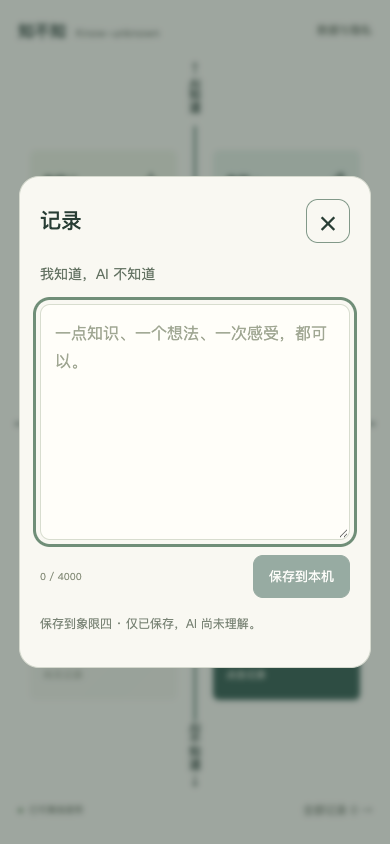
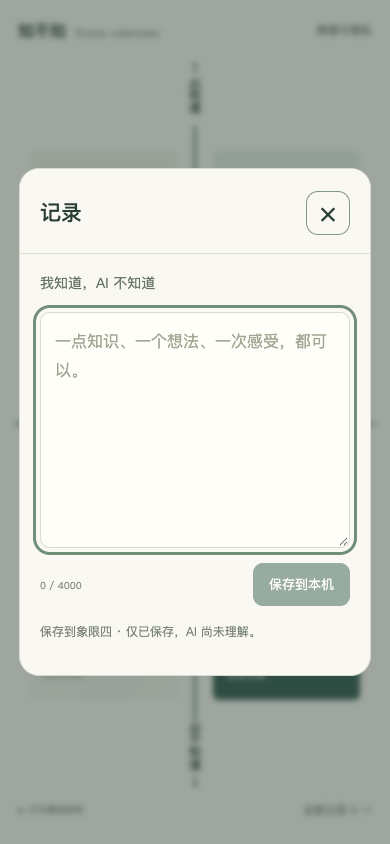
Keep dialog heading and close control fixed above scrolling records

diff --git a/src/App.tsx b/src/App.tsx
@@ -20,6 +20,7 @@ export default function App() {
   const [busy, setBusy] = useState(false); const [online, setOnline] = useState(navigator.onLine);
   const [offlineReady, setOfflineReady] = useState(false); const [offlineError, setOfflineError] = useState(false);
   const dialog = useRef<HTMLDialogElement>(null); const channel = useRef<BroadcastChannel | null>(null);
+  const scrollContent = useRef<HTMLDivElement>(null);
   const editorReturn = useRef<{ panel: RecordPanel; scrollTop: number; trigger: HTMLButtonElement } | undefined>(undefined);
   const mutationLock = useRef(false);
   const editingFeedback = editing?.analysis !== undefined;
@@ -46,11 +47,11 @@ export default function App() {
   useLayoutEffect(() => {
     if (panel && !dialog.current?.open) dialog.current?.showModal();
     if (panel === 'write') {
-      if (dialog.current) dialog.current.scrollTop = 0;
+      if (scrollContent.current) scrollContent.current.scrollTop = 0;
       dialog.current?.querySelector('textarea')?.focus({ preventScroll: true });
     } else if (editorReturn.current && editorReturn.current.panel === panel) {
       const origin = editorReturn.current;
-      if (dialog.current) dialog.current.scrollTop = origin.scrollTop;
+      if (scrollContent.current) scrollContent.current.scrollTop = origin.scrollTop;
       origin.trigger.focus({ preventScroll: true });
       editorReturn.current = undefined;
     }
@@ -87,7 +88,7 @@ export default function App() {
   function edit(record: CognitiveRecord, trigger: HTMLButtonElement) {
     if (busy || update.applying) return;
     if (panel === 'all' || panel === 'shared' || panel === 'gaps' || panel === 'unexplored') {
-      editorReturn.current = { panel, scrollTop: dialog.current?.scrollTop ?? 0, trigger };
+      editorReturn.current = { panel, scrollTop: scrollContent.current?.scrollTop ?? 0, trigger };
     }
     setEditing(record); setText(record.analysis?.userRevision?.summary ?? record.analysis?.summary ?? record.text); setKind(record.kind); setEntryPoint(record.placement.entryPoint);
     setAnswerId(undefined); setError(''); setNotice(''); setPanel('write');
@@ -157,12 +158,17 @@ export default function App() {
     {notice && <p role="status" className="notice">{notice}</p>}
     {!panel && error && <div role="alert" className="error">{error} <button onClick={() => void run(reload, '已重新读取本机资料。')}>重试</button></div>}
     <dialog ref={dialog} onCancel={e => { e.preventDefault(); close(); }} onClose={() => setPanel(undefined)} aria-labelledby="panel-title">
-      <div className="dialog-header"><div><h2 id="panel-title">{panel === 'write' && editingFeedback ? '修订 AI 反馈' : panel === 'write' && editing ? '编辑记录' : panel && panelTitle[panel]}</h2></div><button className="close" disabled={busy} onClick={close} aria-label="关闭">×</button></div>
-      {panel === 'write' && <form onSubmit={save}><p className="editor-context">{editingFeedback ? '写下你认为更准确的理解' : kind === 'personal' ? '我知道，AI 不知道' : '我还不知道，等待探索'}</p><label className="sr-only" htmlFor="note">{editingFeedback ? '修订 AI 反馈' : kind === 'personal' ? '记下一件你知道的事' : '记下一件你还不明白的事'}</label><textarea id="note" autoFocus value={text} maxLength={MAX_TEXT} disabled={busy} onChange={e => setText(e.target.value)} placeholder={kind === 'personal' ? '一点知识、一个想法、一次感受，都可以。' : '例如：我想知道怎样设计航天飞机。'}/><div className="editor-bottom"><span>{text.length} / {MAX_TEXT}</span><button className="primary" disabled={busy || !text.trim() || (editing !== undefined && !dirty)}>{busy ? '保存中…' : editing ? '保存修改' : '保存到本机'}</button></div><p className="hint" aria-live="polite">{editingFeedback ? '保留 AI 原建议，保存为用户修订，等待确认。' : editing && editing.status !== 'pending' ? `修改后回到${kind === 'known_unknown' ? '象限二' : '象限四'}，原理解与确认失效。` : `保存到${kind === 'known_unknown' ? '象限二' : '象限四'} · 仅已保存，AI 尚未理解。`}</p></form>}
-      {listPanel && <div hidden={panel === 'write'}><p className="panel-description">{listPanel === 'all' ? '所有已保存记录都在这里；调整象限后仍会保留，理解与确认状态分别标注。' : listPanel === 'shared' ? '可修订 AI 反馈或删除已有记录，不能在此新增。' : listPanel === 'unexplored' ? '这里保留待探索的条目，你可以逐条查看或删除。' : '你主动记录的未知与困惑，可编辑或删除。'}</p>{listPanel === 'all' && questionPrompt}{groups[listPanel].length ? [...groups[listPanel]].reverse().map(recordView) : <div className="empty"><span>○</span><h3>{listPanel === 'shared' ? '共同认知，慢慢形成' : listPanel === 'gaps' ? '好奇心还未落笔' : '这里还没有记录'}</h3><p>{listPanel === 'shared' ? '接入模型并核对理解后，记录会出现在这里。' : listPanel === 'unexplored' ? '有记录后，可在这里查看或删除。' : '从象限四记下一件小事就好。'}</p></div>}{(listPanel === 'all' || listPanel === 'gaps') && <button className="primary full" onClick={() => write(undefined, listPanel === 'gaps' ? 'known_unknown' : 'personal', listPanel === 'gaps' ? 'upper_left' : 'record_list')}>记录</button>}</div>}
-      {panel === 'settings' && <div className="settings"><section><h3>应用版本 {APP_VERSION}</h3><p>数据格式 {archive?.schemaVersion ?? '…'} · 更新应用会保留本机已保存记录。</p><div className="record-actions"><button disabled={busy || update.checking || update.applying} onClick={() => void checkForUpdates()}>{update.checking ? '检查中…' : '检查更新'}</button>{update.available && <button disabled={busy || update.applying} onClick={updateApp}>{update.applying ? '更新中…' : '更新应用'}</button>}</div><p role="status">{update.message}</p></section><section><h3>你的记录，留在你的设备上</h3><p>首版没有账号、云同步或真实模型。资料保存在当前浏览器，未作应用级加密。不同浏览器不会自动共享。</p><p>清理站点、隐私浏览或设备空间不足可能导致资料丢失。建议定期导出；导出文件为明文，请妥善保存。</p></section><div className="data-actions"><button disabled={busy || !archive} onClick={() => void download()}>导出 JSON · {records.length} 条</button><label className="file-button">从 JSON 恢复<input type="file" accept=".json,application/json" disabled={busy || !archive} onChange={e => { const file = e.target.files?.[0]; e.target.value = ''; if (file) void restore(file); }}/></label><button disabled={busy} onClick={() => void run(async () => { if (!navigator.storage?.persist) throw new Error('当前浏览器不支持请求持久保存'); const granted = await navigator.storage.persist(); if (!granted) throw new Error('浏览器尚未授予持久保存，请继续定期导出'); }, '浏览器已允许持久保存，仍建议定期导出。')}>请求浏览器保留资料</button></div><section><h3>关于 AI</h3><p>当前不收集 API Key、不发送记录。未来支持自填模型 Key 或可选本地模型；只有你主动要求理解时，才发送选中的记录。</p></section><button className="danger text-button" disabled={busy || !archive} onClick={() => { if (window.confirm('清空全部记录与跳过的问题？此操作无法撤销，建议先导出。')) void run(() => repository.clear(), '本机个人资料已清空。'); }}>清空本机全部资料</button></div>}
-      {error && <p role="alert" className="error">{error}</p>}
-      {notice && <p role="status" className="notice">{notice}</p>}
+      <div className="dialog-top">
+        <div className="dialog-header"><div><h2 id="panel-title">{panel === 'write' && editingFeedback ? '修订 AI 反馈' : panel === 'write' && editing ? '编辑记录' : panel && panelTitle[panel]}</h2></div><button className="close" disabled={busy} onClick={close} aria-label="关闭">×</button></div>
+        {listPanel && panel !== 'write' && <p className="panel-description">{listPanel === 'all' ? '所有已保存记录都在这里；调整象限后仍会保留，理解与确认状态分别标注。' : listPanel === 'shared' ? '可修订 AI 反馈或删除已有记录，不能在此新增。' : listPanel === 'unexplored' ? '这里保留待探索的条目，你可以逐条查看或删除。' : '你主动记录的未知与困惑，可编辑或删除。'}</p>}
+      </div>
+      <div className="dialog-content" ref={scrollContent}>
+        {panel === 'write' && <form onSubmit={save}><p className="editor-context">{editingFeedback ? '写下你认为更准确的理解' : kind === 'personal' ? '我知道，AI 不知道' : '我还不知道，等待探索'}</p><label className="sr-only" htmlFor="note">{editingFeedback ? '修订 AI 反馈' : kind === 'personal' ? '记下一件你知道的事' : '记下一件你还不明白的事'}</label><textarea id="note" autoFocus value={text} maxLength={MAX_TEXT} disabled={busy} onChange={e => setText(e.target.value)} placeholder={kind === 'personal' ? '一点知识、一个想法、一次感受，都可以。' : '例如：我想知道怎样设计航天飞机。'}/><div className="editor-bottom"><span>{text.length} / {MAX_TEXT}</span><button className="primary" disabled={busy || !text.trim() || (editing !== undefined && !dirty)}>{busy ? '保存中…' : editing ? '保存修改' : '保存到本机'}</button></div><p className="hint" aria-live="polite">{editingFeedback ? '保留 AI 原建议，保存为用户修订，等待确认。' : editing && editing.status !== 'pending' ? `修改后回到${kind === 'known_unknown' ? '象限二' : '象限四'}，原理解与确认失效。` : `保存到${kind === 'known_unknown' ? '象限二' : '象限四'} · 仅已保存，AI 尚未理解。`}</p></form>}
+        {listPanel && <div hidden={panel === 'write'}>{listPanel === 'all' && questionPrompt}{groups[listPanel].length ? [...groups[listPanel]].reverse().map(recordView) : <div className="empty"><span>○</span><h3>{listPanel === 'shared' ? '共同认知，慢慢形成' : listPanel === 'gaps' ? '好奇心还未落笔' : '这里还没有记录'}</h3><p>{listPanel === 'shared' ? '接入模型并核对理解后，记录会出现在这里。' : listPanel === 'unexplored' ? '有记录后，可在这里查看或删除。' : '从象限四记下一件小事就好。'}</p></div>}{(listPanel === 'all' || listPanel === 'gaps') && <button className="primary full" onClick={() => write(undefined, listPanel === 'gaps' ? 'known_unknown' : 'personal', listPanel === 'gaps' ? 'upper_left' : 'record_list')}>记录</button>}</div>}
+        {panel === 'settings' && <div className="settings"><section><h3>应用版本 {APP_VERSION}</h3><p>数据格式 {archive?.schemaVersion ?? '…'} · 更新应用会保留本机已保存记录。</p><div className="record-actions"><button disabled={busy || update.checking || update.applying} onClick={() => void checkForUpdates()}>{update.checking ? '检查中…' : '检查更新'}</button>{update.available && <button disabled={busy || update.applying} onClick={updateApp}>{update.applying ? '更新中…' : '更新应用'}</button>}</div><p role="status">{update.message}</p></section><section><h3>你的记录，留在你的设备上</h3><p>首版没有账号、云同步或真实模型。资料保存在当前浏览器，未作应用级加密。不同浏览器不会自动共享。</p><p>清理站点、隐私浏览或设备空间不足可能导致资料丢失。建议定期导出；导出文件为明文，请妥善保存。</p></section><div className="data-actions"><button disabled={busy || !archive} onClick={() => void download()}>导出 JSON · {records.length} 条</button><label className="file-button">从 JSON 恢复<input type="file" accept=".json,application/json" disabled={busy || !archive} onChange={e => { const file = e.target.files?.[0]; e.target.value = ''; if (file) void restore(file); }}/></label><button disabled={busy} onClick={() => void run(async () => { if (!navigator.storage?.persist) throw new Error('当前浏览器不支持请求持久保存'); const granted = await navigator.storage.persist(); if (!granted) throw new Error('浏览器尚未授予持久保存，请继续定期导出'); }, '浏览器已允许持久保存，仍建议定期导出。')}>请求浏览器保留资料</button></div><section><h3>关于 AI</h3><p>当前不收集 API Key、不发送记录。未来支持自填模型 Key 或可选本地模型；只有你主动要求理解时，才发送选中的记录。</p></section><button className="danger text-button" disabled={busy || !archive} onClick={() => { if (window.confirm('清空全部记录与跳过的问题？此操作无法撤销，建议先导出。')) void run(() => repository.clear(), '本机个人资料已清空。'); }}>清空本机全部资料</button></div>}
+        {error && <p role="alert" className="error">{error}</p>}
+        {notice && <p role="status" className="notice">{notice}</p>}
+      </div>
     </dialog>
   </main>;
 }

diff --git a/src/styles.css b/src/styles.css
@@ -75,7 +75,7 @@ header h1 { font-size: 18px; font-weight: 500; letter-spacing: .2px; line-height
 .question small { font-size: 10px; color: #8b927f; }
 .question p { font-size: 13px; margin: 4px 0 0; }
 .question-actions { display: flex; justify-content: flex-end; gap: 20px; margin-top: 8px; }
-.notice,.error{padding:10px 14px;border-radius:8px;font-size:13px;overflow-wrap:anywhere}.notice{background:#e4eadf;color:#365d51}.error{background:#f6e9e1;color:#874e3b}dialog{width:min(570px,calc(100% - 24px));max-height:88dvh;border:1px solid #d5d9ce;border-radius:20px;background:#f9f8f2;color:#283d34;padding:28px;overscroll-behavior:contain}dialog::backdrop{background:#23352d69;backdrop-filter:blur(3px)}.dialog-header{display:flex;justify-content:space-between;align-items:center;margin-bottom:25px}.dialog-header h2{font-size:24px;font-weight:500;margin:0}.dialog-header .eyebrow{font-size:8px}.close{display:flex;align-items:center;justify-content:center;flex:0 0 44px;width:44px;height:44px;border:1.5px solid #829989;border-radius:12px;font-size:28px;padding:0}form label{display:block;font-size:12px;color:#7b8578;margin-bottom:10px}textarea{display:block;width:100%;height:clamp(160px,28dvh,260px);min-height:150px;padding:14px;border:1px solid #d8ddcf;border-radius:10px;resize:vertical;background:#fffef9;color:#283d34;font-size:16px;line-height:1.8}textarea::placeholder{color:#a0a793}.editor-bottom{display:flex;justify-content:space-between;align-items:center;margin-top:15px}.editor-bottom>span{font-size:10px;color:#8b927f}.primary{background:var(--green);color:#fff;border-color:var(--green);font-size:13px}.hint,.panel-description{font-size:12px;color:#7a8476}.hint{margin-top:16px}.panel-description{margin:0 0 20px}.record{padding:20px 0;border-top:1px solid #dce0d2}.record-meta{display:flex;justify-content:space-between;align-items:center}.record-meta time{font-size:10px;color:#909780}.badge{font-size:10px;border-radius:20px;padding:3px 9px;background:#e9ebdf;color:#6d795e}.badge.confirmed{background:#dce9dc;color:#365d51}.original{font-size:15px;white-space:pre-wrap;overflow-wrap:anywhere}.analysis{background:#eaeee3;padding:12px 16px;border-radius:10px}.analysis small{font-size:10px;color:#7b8772}.analysis p{font-size:13px;white-space:pre-wrap;overflow-wrap:anywhere}.record-actions{display:flex;gap:12px;flex-wrap:wrap;margin-top:14px}.record-actions button{font-size:11px;padding:6px 10px}.danger{color:#98634e}.empty{text-align:center;padding:35px 5px 45px;color:#7f8c72}.empty>span{font-size:40px;font-weight:200}.empty h3{font-size:16px;font-weight:400}.empty p{font-size:12px}.full{width:100%}.settings h3{font-size:15px;font-weight:500}.settings p{font-size:12px;color:#7b8578;line-height:1.9}.settings section{margin-bottom:24px}.data-actions{display:grid;gap:10px;margin-bottom:28px}.data-actions button,.file-button{font-size:13px;text-align:center;border:1px solid #d5d9ce;padding:10px;border-radius:10px}.file-button{display:block;position:relative;cursor:pointer}.file-button input{position:absolute;inset:0;width:100%;height:100%;opacity:0;cursor:pointer}.file-button:has(input:disabled){opacity:.5;cursor:default}@media (max-width: 600px) {
+.notice,.error{padding:10px 14px;border-radius:8px;font-size:13px;overflow-wrap:anywhere}.notice{background:#e4eadf;color:#365d51}.error{background:#f6e9e1;color:#874e3b}dialog{width:min(570px,calc(100% - 24px));max-height:88dvh;border:1px solid #d5d9ce;border-radius:20px;background:#f9f8f2;color:#283d34;padding:0;overflow:hidden}dialog[open]{display:flex;flex-direction:column}dialog::backdrop{background:#23352d69;backdrop-filter:blur(3px)}.dialog-header{display:flex;justify-content:space-between;align-items:center;margin-bottom:0;gap:16px}.dialog-header h2{font-size:24px;font-weight:500;margin:0}.dialog-top{flex:none;padding:24px 28px 20px;background:#f9f8f2;border-bottom:1px solid #dce0d2}.dialog-top .panel-description{margin:18px 0 0}.dialog-header>div{min-width:0}.dialog-content{min-height:0;overflow-y:auto;overscroll-behavior:contain;padding:20px 28px 28px}.dialog-header .eyebrow{font-size:8px}.close{display:flex;align-items:center;justify-content:center;flex:0 0 44px;width:44px;height:44px;border:1.5px solid #829989;border-radius:12px;font-size:28px;padding:0}form label{display:block;font-size:12px;color:#7b8578;margin-bottom:10px}textarea{display:block;width:100%;height:clamp(160px,28dvh,260px);min-height:150px;padding:14px;border:1px solid #d8ddcf;border-radius:10px;resize:vertical;background:#fffef9;color:#283d34;font-size:16px;line-height:1.8}textarea::placeholder{color:#a0a793}.editor-bottom{display:flex;justify-content:space-between;align-items:center;margin-top:15px}.editor-bottom>span{font-size:10px;color:#8b927f}.primary{background:var(--green);color:#fff;border-color:var(--green);font-size:13px}.hint,.panel-description{font-size:12px;color:#7a8476}.hint{margin-top:16px}.panel-description{margin:0 0 20px}.record{padding:20px 0;border-top:1px solid #dce0d2}.record-meta{display:flex;justify-content:space-between;align-items:center}.record-meta time{font-size:10px;color:#909780}.badge{font-size:10px;border-radius:20px;padding:3px 9px;background:#e9ebdf;color:#6d795e}.badge.confirmed{background:#dce9dc;color:#365d51}.original{font-size:15px;white-space:pre-wrap;overflow-wrap:anywhere}.analysis{background:#eaeee3;padding:12px 16px;border-radius:10px}.analysis small{font-size:10px;color:#7b8772}.analysis p{font-size:13px;white-space:pre-wrap;overflow-wrap:anywhere}.record-actions{display:flex;gap:12px;flex-wrap:wrap;margin-top:14px}.record-actions button{font-size:11px;padding:6px 10px}.danger{color:#98634e}.empty{text-align:center;padding:35px 5px 45px;color:#7f8c72}.empty>span{font-size:40px;font-weight:200}.empty h3{font-size:16px;font-weight:400}.empty p{font-size:12px}.full{width:100%}.settings h3{font-size:15px;font-weight:500}.settings p{font-size:12px;color:#7b8578;line-height:1.9}.settings section{margin-bottom:24px}.data-actions{display:grid;gap:10px;margin-bottom:28px}.data-actions button,.file-button{font-size:13px;text-align:center;border:1px solid #d5d9ce;padding:10px;border-radius:10px}.file-button{display:block;position:relative;cursor:pointer}.file-button input{position:absolute;inset:0;width:100%;height:100%;opacity:0;cursor:pointer}.file-button:has(input:disabled){opacity:.5;cursor:default}@media (max-width: 600px) {
   main { padding: max(14px, env(safe-area-inset-top)) 18px max(14px, env(safe-area-inset-bottom)); }
   header { margin-bottom: 14px; }
   header h1 { font-size: 16px; letter-spacing: 0; }
@@ -94,9 +94,9 @@ header h1 { font-size: 18px; font-weight: 500; letter-spacing: .2px; line-height
   .vertical-label { font-size: 12px; }
   .below-map { font-size: 9px; margin-top: 8px; }
   .below-map .text-button { font-size: 11px; }
-  dialog { padding: 22px 20px; }
+  .dialog-top { padding: 22px 20px 18px; }
+  .dialog-content { padding: 18px 20px 22px; }
   .dialog-header h2 { font-size: 21px; }
-  .dialog-header { margin-bottom: 20px; }
   .notice, .error { font-size: 12px; }
 }
 @media (prefers-reduced-motion: reduce) { * { transition: none !important; } }

diff --git a/src/pwa.ts b/src/pwa.ts
@@ -1,6 +1,6 @@
 import { registerSW } from 'virtual:pwa-register';
 
-export const APP_VERSION = '0.1.5';
+export const APP_VERSION = '0.1.6';
 type UpdateState = { available: boolean; checking: boolean; applying: boolean; message: string };
 let state: UpdateState = { available: false, checking: false, applying: false, message: '' };
 const listeners = new Set<() => void>();

diff --git a/docs/verification.md b/docs/verification.md
@@ -219,3 +219,16 @@ npm run test:e2e
 - 编辑修复提交 f8eb22b、版本校正提交 28eea6e 均已推送。最终 [GitHub Actions 39717805783](https://github.com/ZHERLOCK0213/Know-unknown/actions/runs/39717805783) 终态 success。
 - 正式 HTTPS 网站独立 Chrome 390×844 验收通过：HTTP 200，设置页显示应用 0.1.5、归档仍 v5。仅在隔离浏览器本地导入 8 条 test/fake 虚构记录，从列表中段验证无修改关闭、拒绝/确认放弃草稿、Esc 与保存，均返回同一列表、原滚动位置和编辑按钮焦点；页面错误 0。
 - 关闭页面并断网重开后，反馈修订仍可查看；离线编辑后关闭继续返回原列表。导出确认原文、模型原建议与独立 userRevision 保留，状态仍待确认。已目视检查线上返回列表画面。测试上下文关闭即移除虚构数据，没有上传用户 JSON 或把私人内容写入仓库；iPhone 主屏幕实际更新与键盘表现仍需用户验收。
+
+
+## 固定弹窗顶部与独立滚动内容
+
+日期：2026-10-22。应用版本：0.1.6，归档格式仍为 v5。
+
+- 将弹窗拆为固定顶部与独立滚动内容区；标题、列表说明、关闭按钮始终留在顶部，关闭点击区保留 44×44px。编辑器和数据设置共用该结构。
+- 上轮编辑返回机制改为缓存/恢复内容区的 scrollTop，仍保留来源列表、触发按钮焦点和展开详情；不改变理解或确认状态，不改数据库及导出格式。
+- npm test：2 文件 31 项通过。APP_BASE_PATH=/Know-unknown/ npm run build：TypeScript、Vite、PWA 生成通过，预缓存 267.66 KiB。
+- 定向浏览器检查 4 项通过，完整 APP_BASE_PATH=/Know-unknown/ npm run test:e2e：16 项通过（15.8 秒）。新增 12 条虚构反馈长列表，在 390×844、360×640、390×420 短屏和 1280×900 桌面上滚到底部：标题、说明、关闭按钮都在视口内，顶部位置变化不超过 1px，内容不覆盖顶部，实际直接点击关闭成功。
+- 既有编辑返回场景仍覆盖取消、放弃、Esc 与保存，滚动恢复误差不超过 2px，关闭按钮在返回后可见；事务失败、离线导出恢复、旧归档兼容和静态版本升级回归仍通过。
+- 已目视检查长列表滚到底部的手机截图及更新后的记录窗口截图；截图补存后单项复核通过（1.8 秒）。git diff --check 通过。截图与用例只含虚构记录，没有用户私人资料。
+- 上述为桌面 Chrome 移动视口/短屏检查；iPhone 主屏幕和系统软键盘的实际表现仍需真机验收。未新增模型、云同步或数据传输。

diff --git a/README.md b/README.md
@@ -21,7 +21,7 @@
 
 1. 点击象限四记录当下的知识、经历或感受，保存到本机。
 2. 点击象限二的「＋」记录困惑；窗口固定继承入口象限，不再二次选择类型。
-3. 象限一有 AI 反馈时，可通过笔形入口查看，点击「编辑反馈」修订不准确的理解。用户原文与 AI 原建议保留，修订单独标注、等待确认；这里不能新增记录。关闭或保存编辑后，返回原列表并保留浏览位置。
+3. 象限一有 AI 反馈时，可通过笔形入口查看，点击「编辑反馈」修订不准确的理解。用户原文与 AI 原建议保留，修订单独标注、等待确认；这里不能新增记录。关闭或保存编辑后，返回原列表并保留浏览位置。列表顶部的标题、说明和关闭按钮保持可见，记录内容独立滚动。
 4. 「全部记录」展示所有已保存条目，调整象限后仍可见。尚未收到模型反馈的原文可编辑；归类有误可用「移到象限二 / 移到象限四」调整。
 5. 每条记录都可手动删除。在「数据与隐私」导出备份或恢复；恢复会替换本机全部资料。
 
